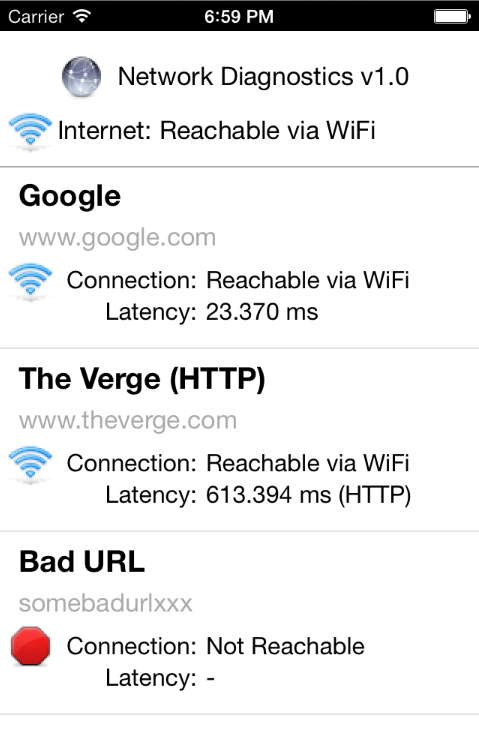
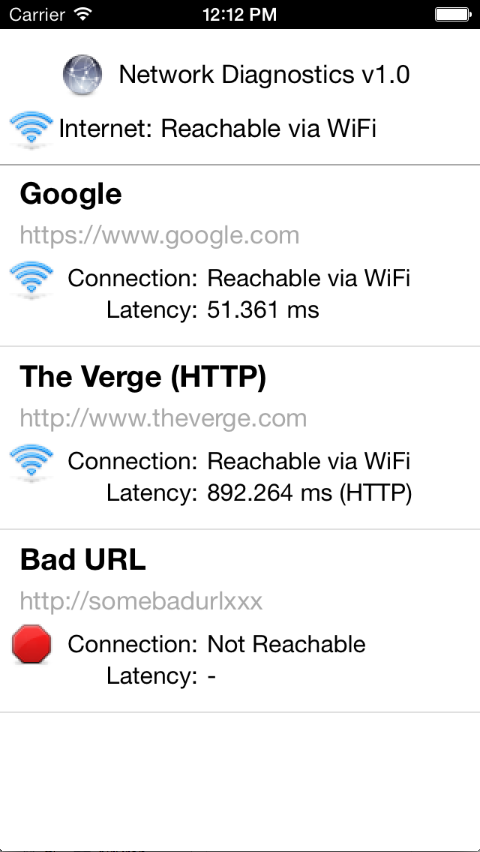
change NDObject host to NSURL

Changed region(s): [[0.0, 0.0, 1.0, 0.92], [0.4384, 0.828, 0.7599, 0.8893], [0.9937, 0.9813, 1.0, 1.0]]

diff --git a/NetworkDiagnostics/NDObject.m b/NetworkDiagnostics/NDObject.m
@@ -10,7 +10,7 @@
 #import "SimplePingHelper.h"
 
 @interface NDObject ()
-@property (nonatomic,strong) NSString *host;
+@property (nonatomic,strong) NSURL *host;
 @property (nonatomic,strong) NSString *title;
 @property (nonatomic,strong) NSNumber *latency;
 @property (nonatomic,assign) NDLatencyType latencyType;
@@ -20,18 +20,28 @@
 @implementation NDObject {
     NSDate *latencyStart;
     SimplePingHelper *pinger;
+    NSString *hostScheme, *hostName;
 }
 
-+ (NDObject*)objectWithTitle:(NSString*)title host:(NSString*)host {
++ (NDObject*)objectWithTitle:(NSString*)title host:(NSURL*)host {
     NDObject *new = [[NDObject alloc] init];
     new.title = title;
     new.host = host;
     return new;
 }
 
-- (void)setHost:(NSString *)host {
-    if ([host isKindOfClass:[NSString class]]) {
+- (void)setHost:(NSURL *)host {
+    if ([host isKindOfClass:[NSURL class]]) {
         _host = host;
+
+        hostScheme = self.host.scheme;
+        hostName = self.host.host;
+        if (hostScheme == nil) {
+            hostScheme = @"http";
+            hostName = self.host.absoluteString;
+            _host = [NSURL URLWithString:[NSString stringWithFormat:@"%@://%@",hostScheme,hostName]];
+        }
+        
         self.latency = nil;
         self.latencyType = NDLatencyType_unknown;
     }
@@ -57,7 +67,11 @@
                                              selector:@selector(reachabilityChanged:)
                                                  name:kReachabilityChangedNotification
                                                object:nil];
-    self.hostReach = [Reachability reachabilityWithHostName:self.host];
+    
+    // NOTE: Some version of Reachability uses method name -reachabilityWithHostName: instead
+    // (with lower case 'n'). So be careful!
+    //self.hostReach = [Reachability reachabilityWithHostname:hostName];
+    self.hostReach = [Reachability reachabilityWithHostName:hostName];
 	[self.hostReach startNotifier];
 }
 
@@ -101,7 +115,7 @@
 - (void)measureLatencyByICMP {
     NSLog(@"%@ - measuring PING latency...", self);
     latencyStart = [NSDate date];
-    [SimplePingHelper ping:self.host target:self sel:@selector(pingResult:)];
+    [SimplePingHelper ping:hostName target:self sel:@selector(pingResult:)];
 }
 
 - (void)pingResult:(NSNumber*)success {
@@ -127,7 +141,8 @@
 // Before sending, the host url string is prefixed by @"http://".
 - (void)measureLatencyByHTTPGET {
     NSLog(@"%@ - measuring HTTP GET latency...", self);
-    NSURL *url = [NSURL URLWithString:[@"http://" stringByAppendingString:self.host]];
+    //NSURL *url = [NSURL URLWithString:[@"http://" stringByAppendingString:self.host]];
+    NSURL *url = self.host;
     NSURLRequest *req = [NSURLRequest requestWithURL:url];
     latencyStart = [NSDate date];
     [NSURLConnection connectionWithRequest:req delegate:self];

diff --git a/NetworkDiagnostics/NDViewController.m b/NetworkDiagnostics/NDViewController.m
@@ -7,7 +7,6 @@
 //
 
 #import "NDViewController.h"
-#import "Reachability.h"
 #import "NDObject.h"
 
 @implementation NDCell
@@ -34,7 +33,7 @@
     NSString *str = [NDObject stringFromStatus:status];
     //NSLog(@"- %@: status = \"%@\"", self.object.host, str);
     self.titleLB.text = self.object.title;
-    self.urlLB.text = self.object.host;
+    self.urlLB.text = self.object.host.absoluteString;
     self.connectionIV.image = [NDObject imageFromStatus:status];
     self.reachableLB.text = str;
     
@@ -82,9 +81,9 @@
         // Custom initialization
 
         // Example
-        NDObject *nd1 = [NDObject objectWithTitle:@"Google" host:@"www.google.com"];
-        NDObject *nd2 = [NDObject objectWithTitle:@"The Verge (HTTP)" host:@"www.theverge.com"];
-        NDObject *nd3 = [NDObject objectWithTitle:@"Bad URL" host:@"somebadurlxxx"];
+        NDObject *nd1 = [NDObject objectWithTitle:@"Google" host:[NSURL URLWithString:@"https://www.google.com"]];
+        NDObject *nd2 = [NDObject objectWithTitle:@"The Verge (HTTP)" host:[NSURL URLWithString:@"www.theverge.com"]];
+        NDObject *nd3 = [NDObject objectWithTitle:@"Bad URL" host:[NSURL URLWithString:@"somebadurlxxx"]];
         self.testHosts = @[nd1,nd2,nd3];
     }
     return self;
@@ -132,7 +131,6 @@
     for (NDObject *o in self.testHosts) {
         if ([o isKindOfClass:[NDObject class]]) {
             [o measureLatency];
-            //[o performSelector:@selector(measureLatency) withObject:nil afterDelay:0.1];
         }
     }
     [self.refreshControl performSelector:@selector(endRefreshing) withObject:nil afterDelay:1];

diff --git a/NetworkDiagnostics/NDObject.h b/NetworkDiagnostics/NDObject.h
@@ -21,8 +21,9 @@ typedef NS_ENUM(NSInteger, NDLatencyType) {
 
 /** Holds a host information for testing reachability and latency */
 @interface NDObject : NSObject
-/** Host part of url, no "http://", e.g. "www.google.com". */
-@property (nonatomic,strong,readonly) NSString *host;
+/** Host name or URL. If no URL scheme is specified, the url is reconstructed using "http" scheme, 
+ to allow calculating HTTP latency. HTTPS URLs are supported by skipping certificate checking. */
+@property (nonatomic,strong,readonly) NSURL *host;
 /** Host name for display */
 @property (nonatomic,strong,readonly) NSString *title;
 /** Latency time, in seconds. Double type. */

diff --git a/README.md b/README.md
@@ -5,7 +5,7 @@ A view controller with a table view showing a list of host urls, each with reach
 
 ## Requirements
 
-* Xcode 4.6.3 with iOS 6.1 Base SDK.
+* Xcode 5 with iOS 7 Base SDK, but should be OK on Xcode 4.6.3.
 
 ## How to use
 
@@ -17,9 +17,9 @@ A view controller with a table view showing a list of host urls, each with reach
 
 ```
 NDViewController *vc = [NDViewController viewController];`
-NDObject *nd1 = [NDObject objectWithTitle:@"Google" host:@"www.google.com"];
-NDObject *nd2 = [NDObject objectWithTitle:@"The Verge (HTTP)" host:@"www.theverge.com"];
-NDObject *nd3 = [NDObject objectWithTitle:@"Bad URL" host:@"somebadurlxxx"];
+NDObject *nd1 = [NDObject objectWithTitle:@"Google" host:[NSURL URLWithString:@"https://www.google.com"]];
+NDObject *nd2 = [NDObject objectWithTitle:@"The Verge (HTTP)" host:[NSURL URLWithString:@"www.theverge.com"]];
+NDObject *nd3 = [NDObject objectWithTitle:@"Bad URL" host:[NSURL URLWithString:@"somebadurlxxx"]];
 vc.testHosts = @[nd1,nd2,nd3]; // config urls
 ```
 
